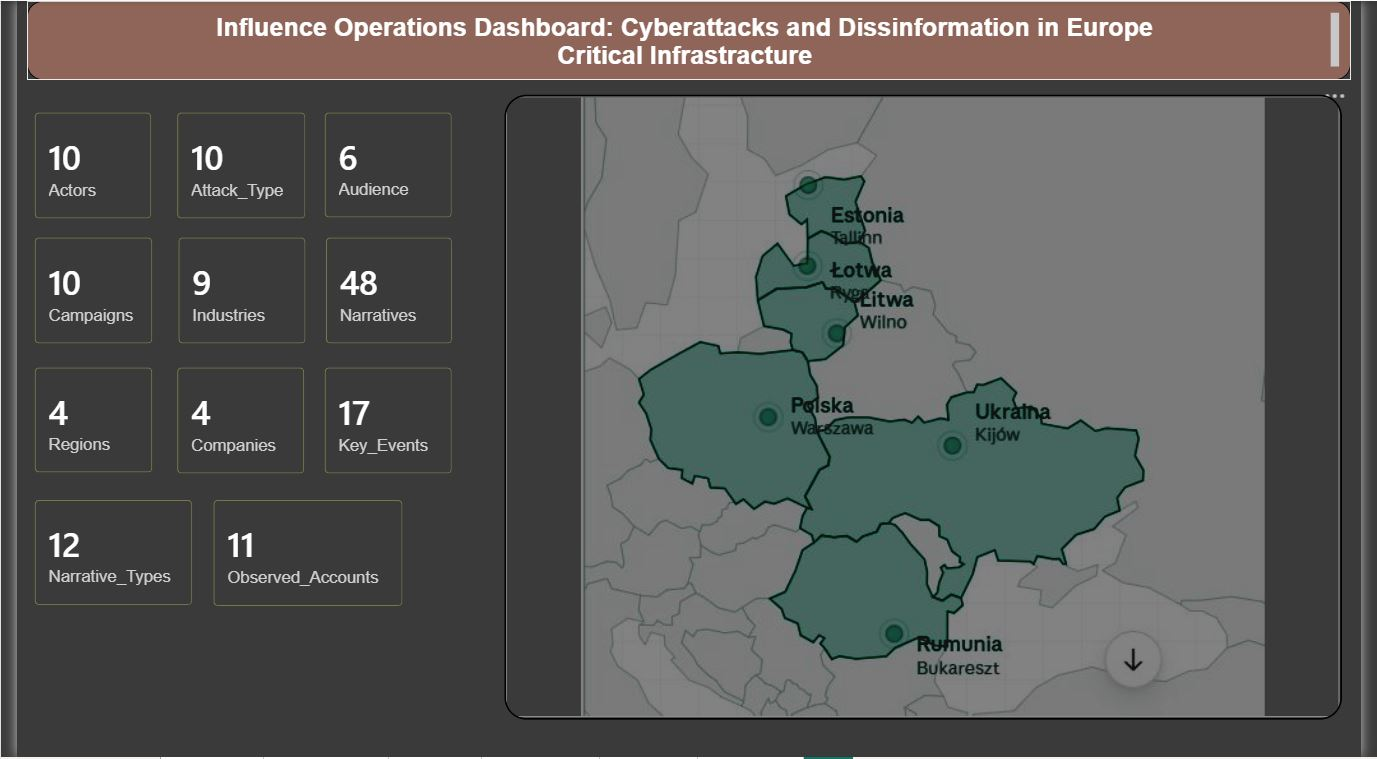
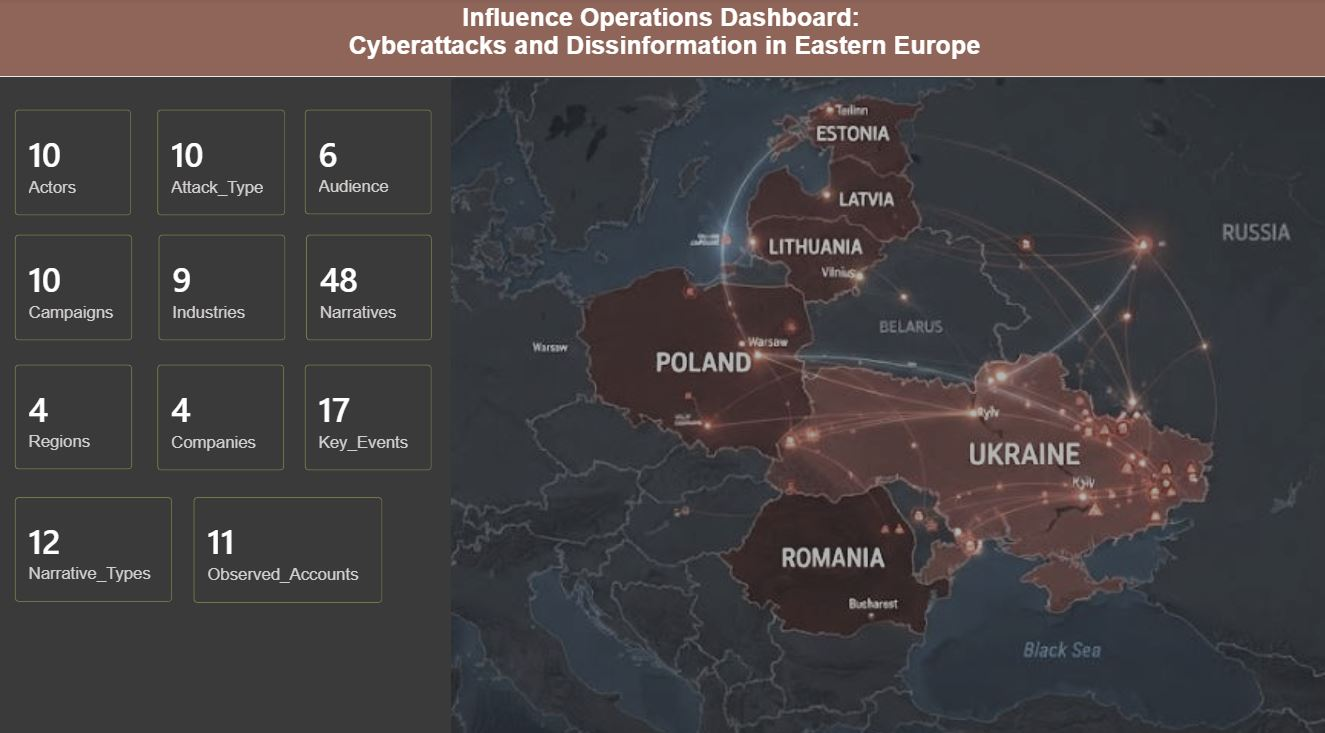
Add CTI map to homepage and update visuals

diff --git a/assets/css/extended/custom.css b/assets/css/extended/custom.css
@@ -116,3 +116,187 @@ h4 .anchor {
 .post-content h4 a {
     text-decoration: none;
 }
+
+/* =====================================
+   CTI Typography
+   ===================================== */
+
+/* Global font */
+
+body {
+    font-family: "Inter", "Segoe UI", Arial, sans-serif;
+}
+
+
+/* Main page title */
+
+.first-entry h1 {
+    font-size: 3rem;
+    font-weight: 700;
+    letter-spacing: -0.03em;
+}
+
+
+/* Article titles */
+
+.post-title {
+    font-size: 2.2rem;
+    font-weight: 700;
+    letter-spacing: -0.03em;
+}
+
+
+/* Content headings */
+
+.post-content h1 {
+    font-size: 2.2rem;
+    margin-top: 40px;
+}
+
+
+.post-content h2 {
+    font-size: 1.6rem;
+    font-weight: 600;
+    margin-top: 45px;
+}
+
+
+.post-content h3 {
+    font-size: 1.25rem;
+    font-weight: 600;
+}
+
+
+/* Normal text */
+
+.post-content p,
+.post-content li {
+    font-size: 1.05rem;
+    line-height: 1.8;
+}
+
+
+/* Home description */
+
+.first-entry .entry-content {
+    font-size: 1.15rem;
+}
+
+
+/* Menu */
+
+#menu a {
+    font-size: 0.95rem;
+    font-weight: 500;
+}
+
+/* =====================================
+   Poline CTI - Heading Scale
+   ===================================== */
+
+/* Main homepage title */
+.first-entry h1 {
+    font-size: 2.4rem;
+}
+
+
+/* Homepage section headings */
+.post-content h1 {
+    font-size: 1.8rem;
+    margin-top: 35px;
+}
+
+
+.post-content h2 {
+    font-size: 1.35rem;
+    margin-top: 35px;
+}
+
+
+.post-content h3 {
+    font-size: 1.15rem;
+}
+
+
+/* Featured Research, Areas of Expertise,
+   Skills & Tools, Latest Research Updates,
+   Contact */
+.post-content h1,
+.post-content h2 {
+    letter-spacing: -0.02em;
+}
+
+
+/* Normal text */
+.post-content p,
+.post-content li {
+    font-size: 1rem;
+    line-height: 1.7;
+}
+
+/* =====================================
+   Poline CTI - Unified Typography
+   ===================================== */
+
+/* All headings */
+h1,
+h2,
+h3,
+h4,
+.post-title,
+.entry-hint-parent {
+    font-family: inherit;
+    font-weight: 600;
+    letter-spacing: -0.02em;
+}
+
+
+/* Homepage main title */
+.first-entry h1 {
+    font-size: 2.2rem;
+}
+
+
+/* Section headings on pages */
+.post-content h1 {
+    font-size: 1.8rem;
+    margin-top: 35px;
+}
+
+
+.post-content h2 {
+    font-size: 1.4rem;
+    margin-top: 30px;
+}
+
+
+.post-content h3 {
+    font-size: 1.2rem;
+}
+
+
+/* Reports list titles */
+.post-entry .entry-header h2,
+.post-entry .entry-header h3 {
+    font-size: 1.35rem;
+}
+
+
+/* Normal text everywhere */
+.post-content,
+.entry-content {
+    font-size: 1rem;
+    line-height: 1.7;
+}
+
+
+/* Remove oversized PaperMod titles */
+.page-header h1 {
+    font-size: 1.8rem;
+}
+
+
+/* Menu consistency */
+#menu a {
+    font-size: 0.95rem;
+}

diff --git a/content/_index.md b/content/_index.md
@@ -2,137 +2,83 @@
 title: "Cyber Threat Intelligence"
 ---
 
-# Poline
-
-## Cyber Threat Intelligence Research
+# Cyber Threat Intelligence Research
 
 Tracking threat actors, cyber campaigns and information operations targeting critical infrastructure.
 
-**OSINT | Threat Intelligence | Malware Analysis | Disinformation Research**
+CTI | OSINT | Threat Intelligence | Disinformation Analysis
 
-[View Research](/reports/)
-[About Me](/about/)
+![Critical Infrastructure Cyber Attack Map](/images/cti-tracker/general.jpg)
 
 ---
 
-# Featured Research
+## Featured Research
 
 ## Critical Infrastructure Cyber Attack Tracker
 
-A continuously updated Cyber Threat Intelligence research project focused on cyber campaigns targeting critical infrastructure across Central and Eastern Europe.
+A continuously updated Cyber Threat Intelligence project tracking cyber campaigns targeting critical infrastructure across Central and Eastern Europe.
 
-### Currently tracking:
+The tracker collects and analyzes:
 
-- Poland
-- Ukraine
-- Lithuania
-- Latvia
-- Estonia
-- Romania
-
-### Intelligence collected:
-
-- Cyber campaigns
-- Threat actors
-- Attack techniques
-- Targeted industries
-- Organizations
-- Information operations
-- Campaign narratives
-
-[View Case Study →](/reports/critical-infrastructure-attack-tracker/)
-
----
-
-# Intelligence Dashboard
-
-Power BI based analysis of collected CTI data.
-
-![CTI Dashboard](/images/cti-tracker/general.jpg)
-
-The dashboard provides analysis of:
-
-- campaign activity
-- threat actor operations
-- attack types
-- geographic targeting
-- narratives and information operations
-
-[Explore Full Dashboard →](/reports/critical-infrastructure-attack-tracker/dashboard/)
-
----
-
-# Intelligence Workflow
-
-## 01 — Collection
-
-Gathering intelligence from:
-
-- security reports
-- OSINT sources
-- news outlets
-- public databases
-
-## 02 — Processing
-
-Structuring intelligence data:
-
-- campaigns
 - threat actors
-- indicators
-- narratives
-- relationships
+- cyber campaigns
+- attack techniques
+- targeted industries
+- information operations
+- associated narratives
 
-## 03 — Analysis
-
-Identifying:
-
-- adversary behavior
-- targeting patterns
-- campaign evolution
-- operational trends
-
-## 04 — Visualization
-
-Transforming intelligence into:
-
-- dashboards
-- reports
-- analytical insights
+[Explore Research](/reports/critical-infrastructure-attack-tracker/)
 
 ---
 
-# Skills & Tools
+## Areas of Expertise
 
-## Security
+## 🛡 Cyber Threat Intelligence
 
-- Microsoft Sentinel
-- Microsoft Defender
-- MITRE ATT&CK
+Researching threat actors, campaigns and emerging cyber threats.
 
-## Intelligence
 
-- OSINT
+## 🔎 OSINT Investigations
+
+Collecting and analyzing open-source intelligence.
+
+
+## 🦠 Malware & Attack Analysis
+
+Studying malware behavior, infrastructure and attack patterns.
+
+
+## 🌐 Information Operations
+
+Tracking narratives, influence campaigns and coordinated activity.
+
+
+---
+
+## Skills & Tools
+
+
+**Intelligence**
+
 - VirusTotal
 - Recorded Future
+- OSINT frameworks
 
-## Analytics
+
+**Analytics**
 
 - Power BI
 - Excel
-- Python
+- MITRE ATT&CK
+
 
 ---
 
-# Latest Research
+## Latest Research Updates
 
-Research updates and intelligence notes will be published as the tracker evolves.
+The CTI tracker is continuously expanded with new campaigns, threat actors and intelligence findings.
+
+[View Updates](/reports/critical-infrastructure-attack-tracker/updates/)
+
 
 ---
-
-# Contact
-
-Connect:
-
-- GitHub
-- LinkedIn
